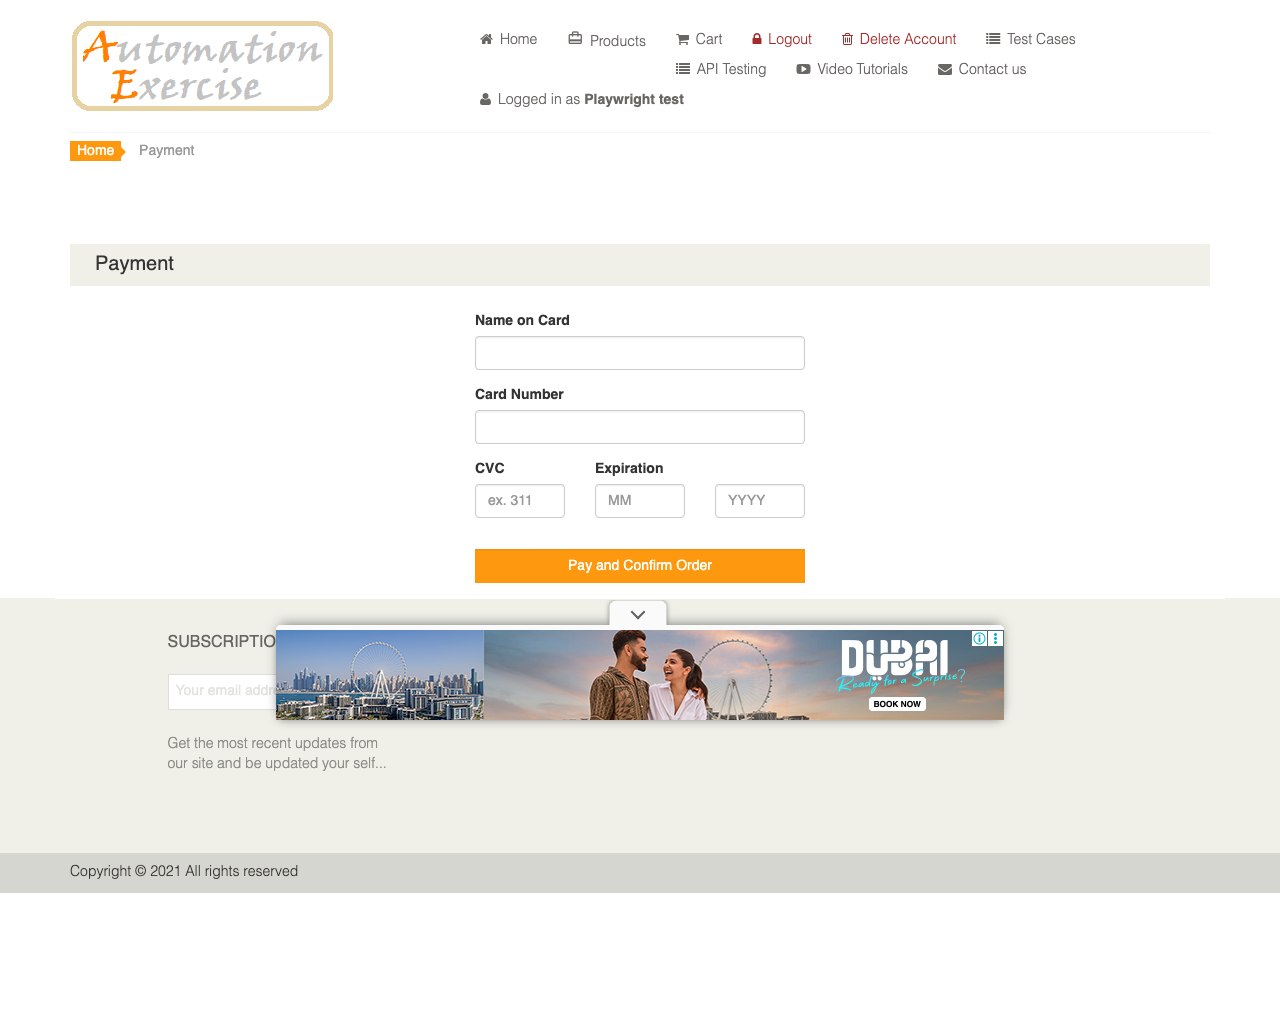
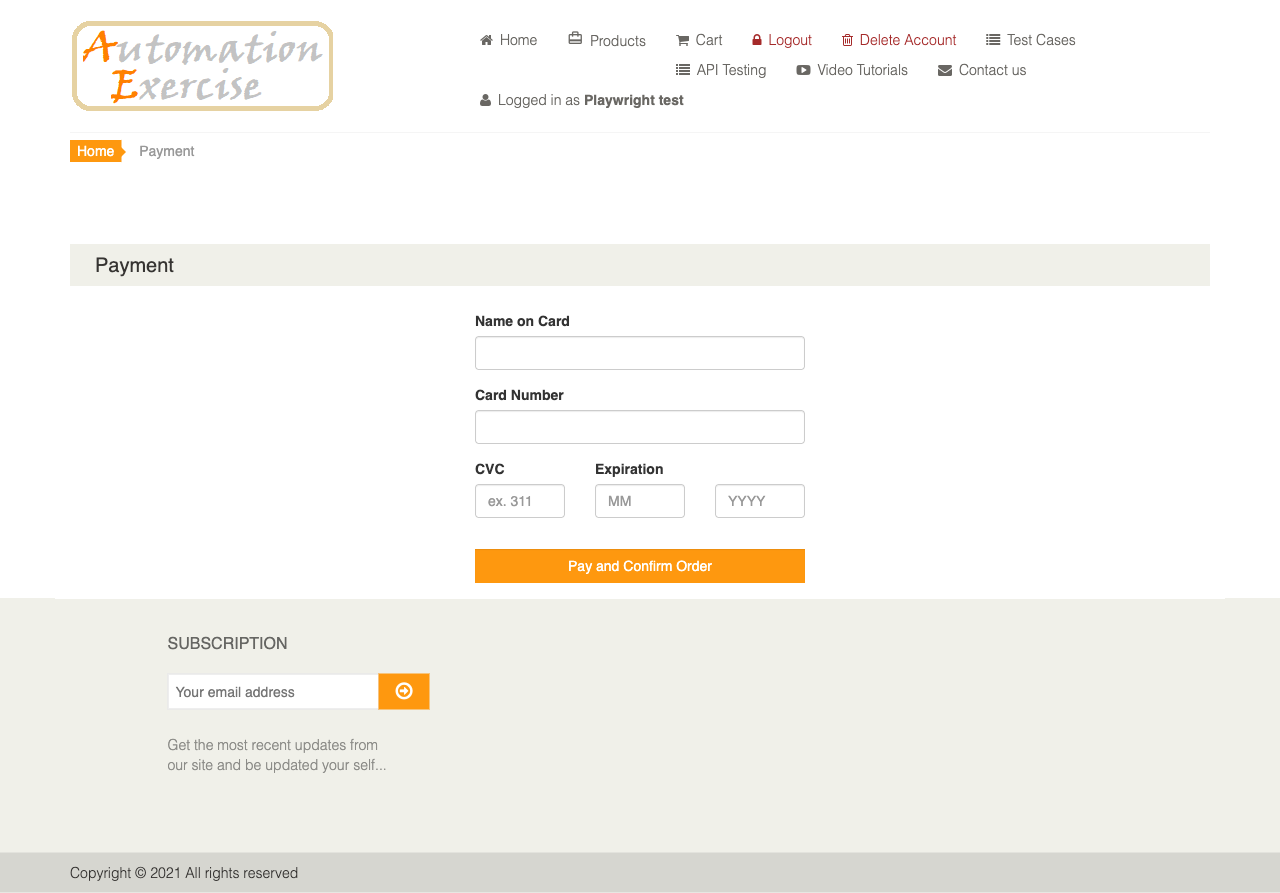
fix: refactor test to use stable accessibility locators

diff --git a/tests/shopping_test.spec.ts b/tests/shopping_test.spec.ts
@@ -1,0 +1,60 @@
+import { test, expect } from "@playwright/test";
+
+test("shopping cart test", async ({ page }) => {
+  test.setTimeout(60000);
+
+  console.log("going to home page");
+
+  await page.goto("https://automationexercise.com", {
+    waitUntil: "domcontentloaded",
+  });
+
+  await expect(
+    page.getByRole("heading", { name: "AutomationExercise" }).first()
+  ).toBeVisible();
+  console.log("home page loades");
+
+  const frstProduct = page.locator(".product-image-wrapper").first();
+  await frstProduct.hover();
+
+  await frstProduct.locator(".add-to-cart").first().click();
+
+  await page.getByRole("link", { name: "View Cart" }).click();
+  console.log("product added to cart");
+
+  await expect(page.locator("#cart_info_table")).toBeVisible();
+  console.log("product is in the cart only, visible in cart table");
+  console.log("going to checkout page");
+
+  await page.getByText("Proceed To Checkout").click();
+
+  const loginModal = page.locator("#checkoutModal");
+  const isModalVisible = await loginModal.isVisible().catch(() => false);
+
+  if (isModalVisible) {
+    await loginModal.getByRole("link").click();
+
+    await page
+      .locator('[data-qa="login-email"]')
+      .fill("playwrighttest@example.com");
+    await page.locator('[data-qa="login-password"]').fill("GFXbtcVV@57kPSH");
+    await page.locator('[data-qa="login-button"]').click();
+
+    await page.waitForURL("**/", { timeout: 10000 });
+
+    await page.goto("https://automationexercise.com/view_cart", {
+      waitUntil: "domcontentloaded",
+    });
+
+    await page.getByText("Proceed To Checkout").click();
+  }
+  console.log("placing order");
+
+  await page.getByText("Place Order").click();
+
+  await expect(page.locator('[name="name_on_card"]')).toBeVisible();
+  console.log("payment page loaded - card details required");
+
+  await page.screenshot({ path: "payment-page.png", fullPage: true });
+  console.log("screenshot saved");
+});
